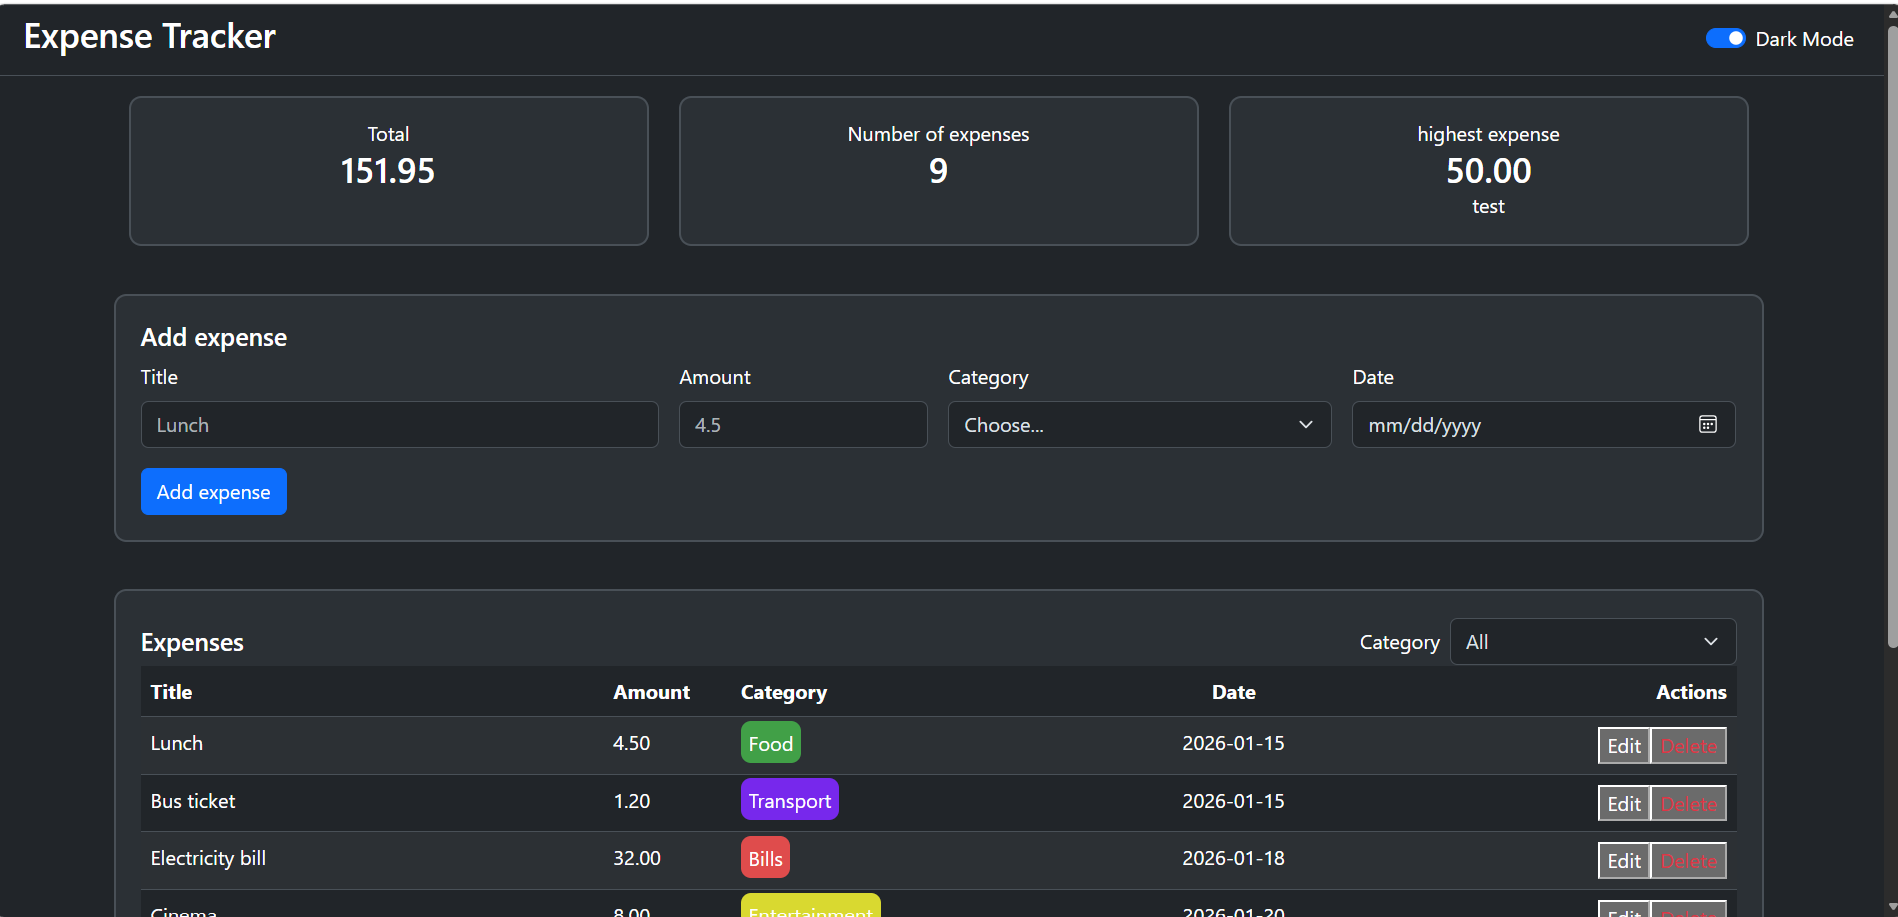
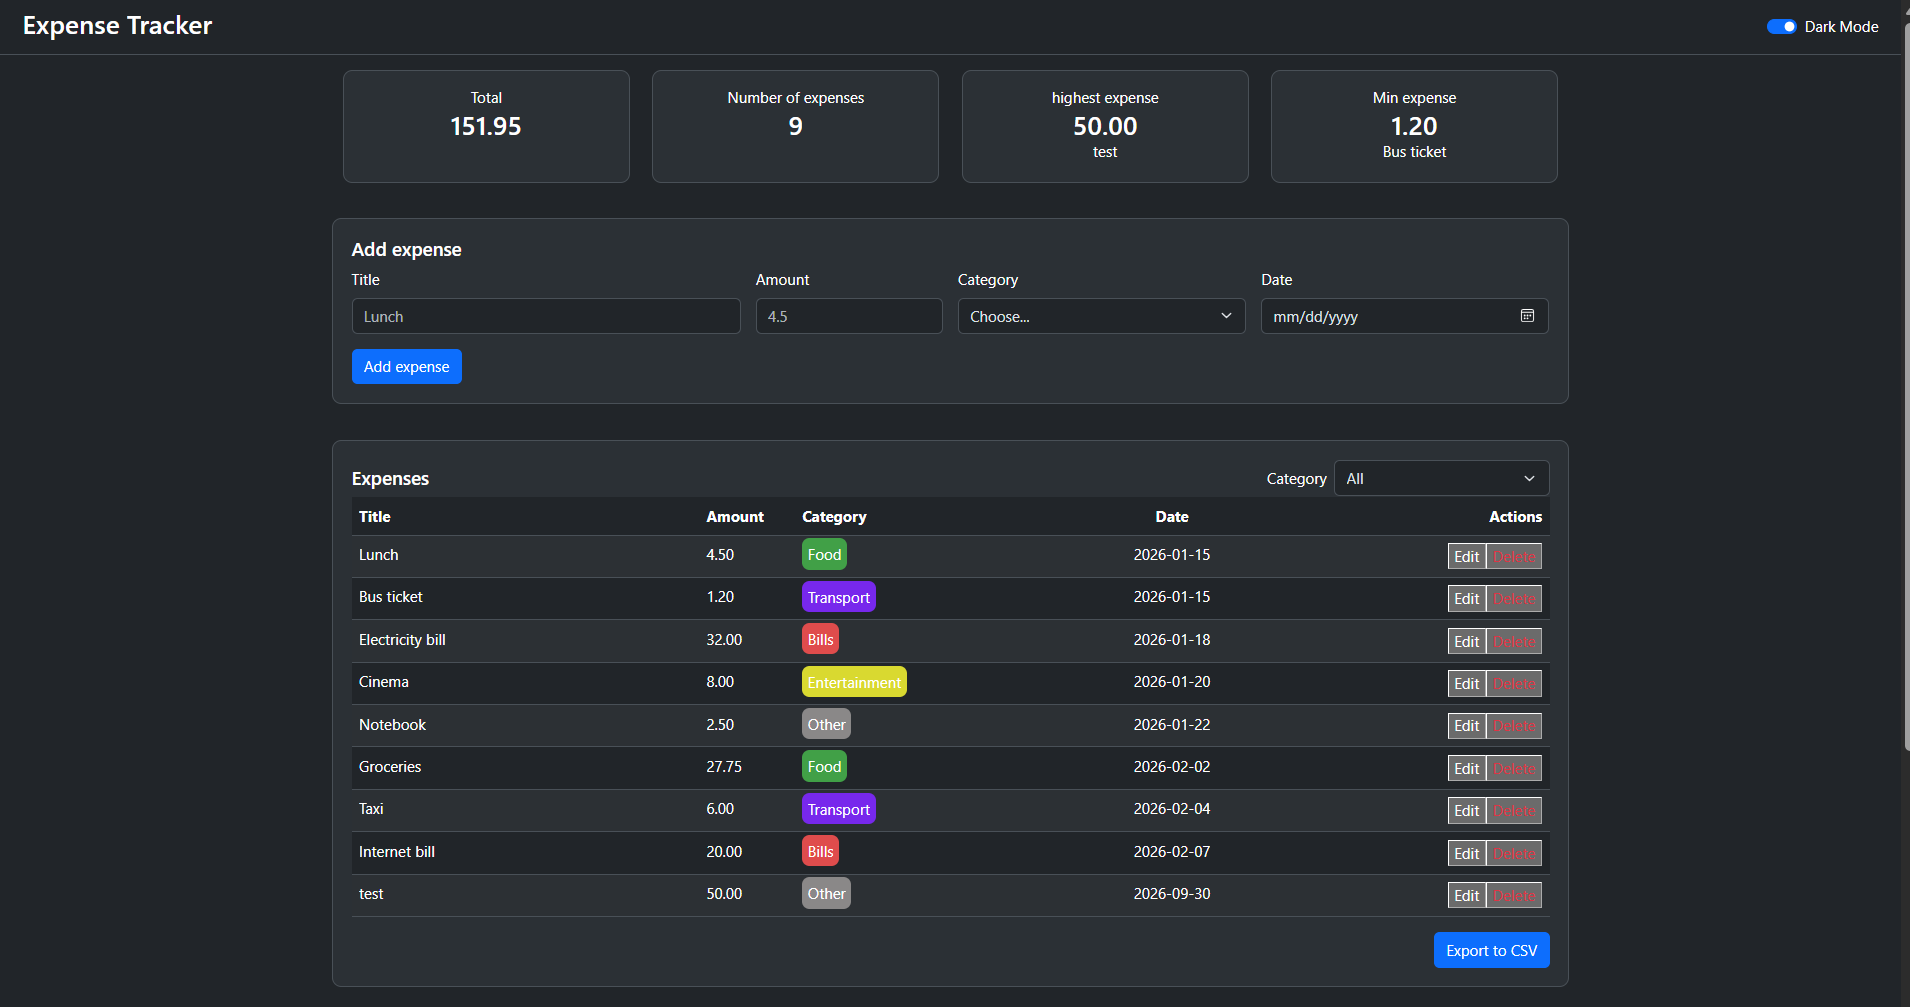
Update images

diff --git a/frontend/css/style.css b/frontend/css/style.css
@@ -16,11 +16,17 @@
     --border-color: #495057;
 }
 
+
 .summary-grid {
     display: grid;
     grid-template-columns: repeat(4, 1fr);
     gap: 1.5rem;
-    margin-top: 1rem;
+}
+
+@media (max-width: 991px) {
+    .summary-grid {
+        grid-template-columns: 1fr;
+    }
 }
 
 .box {
